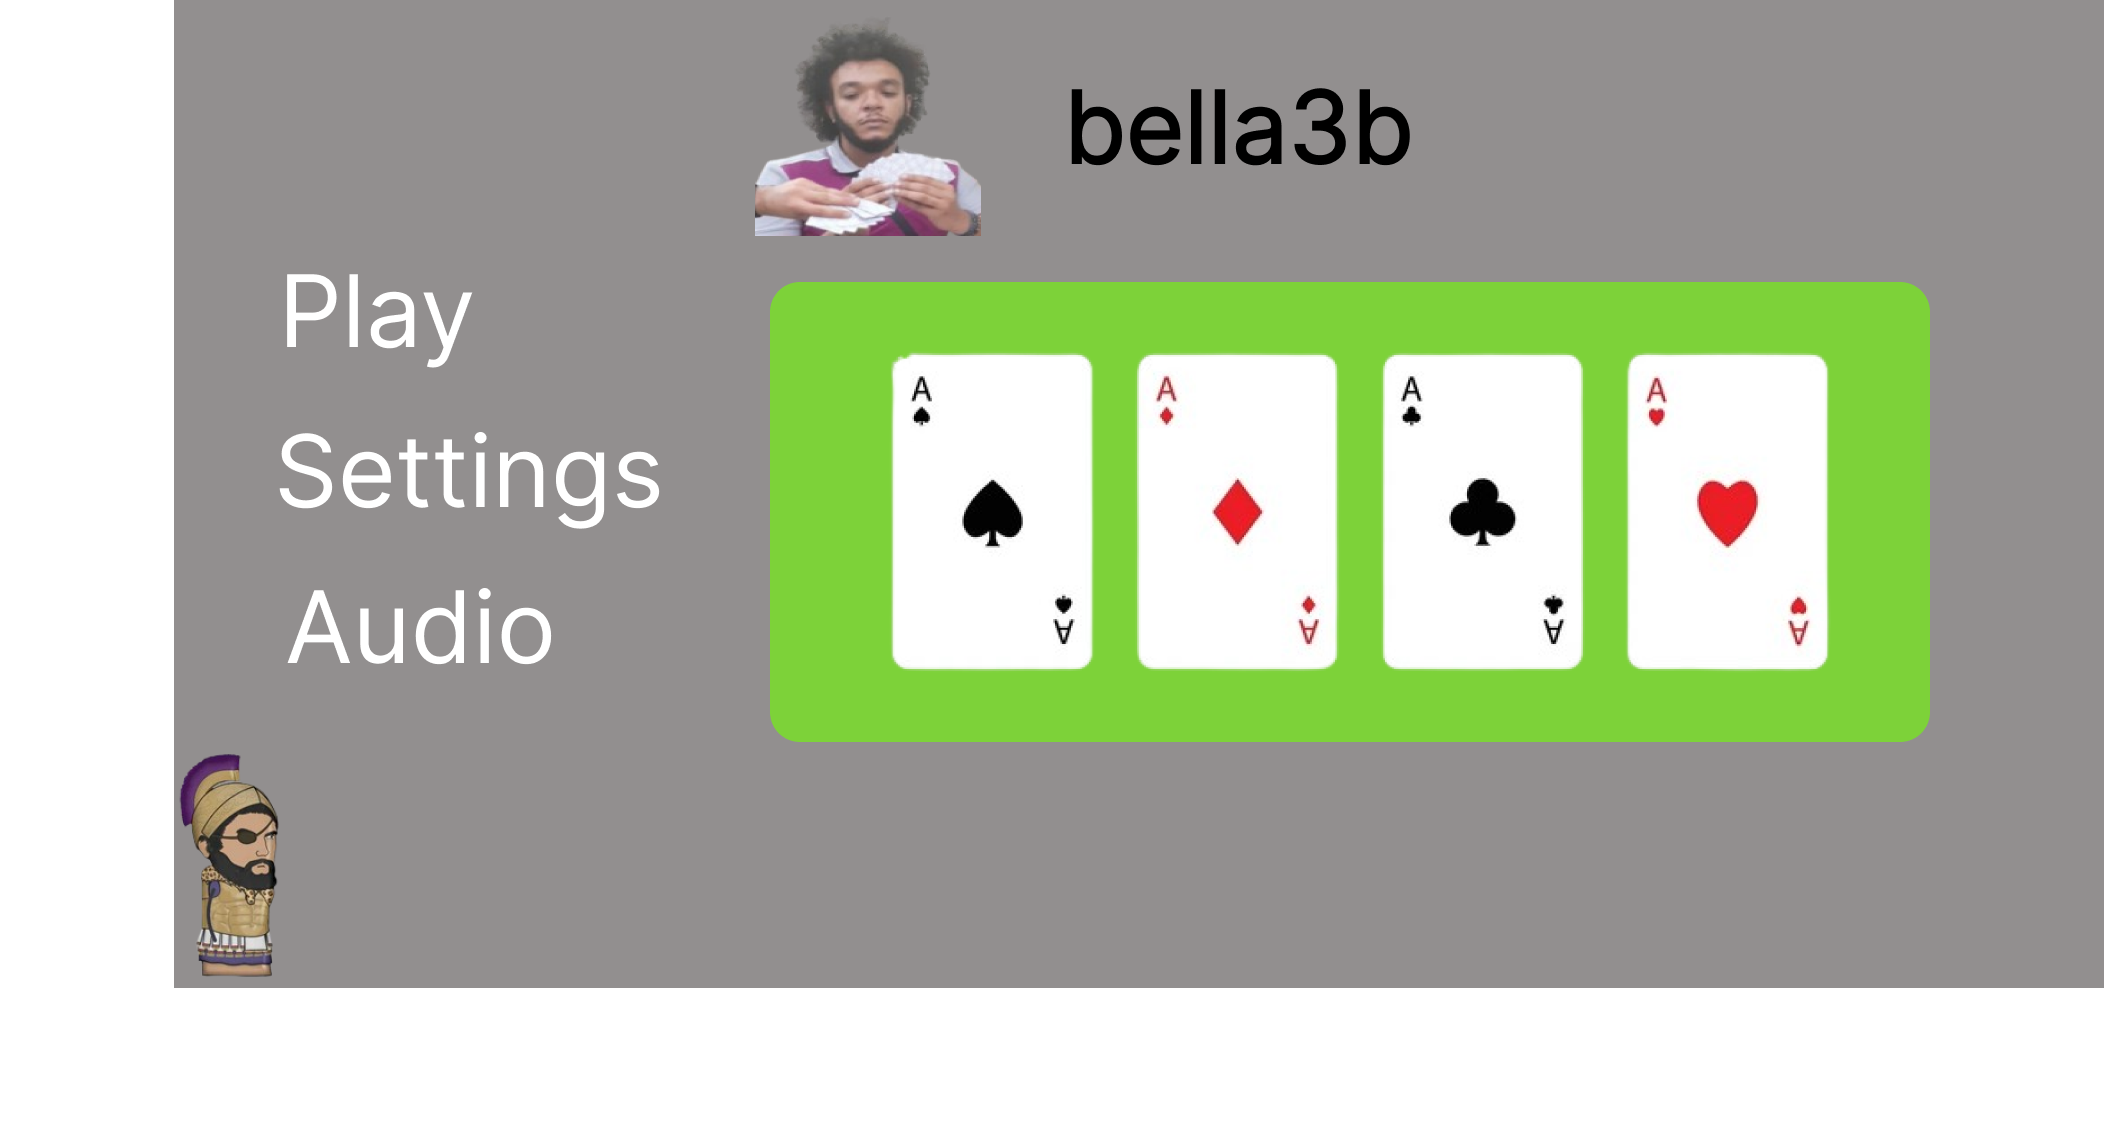
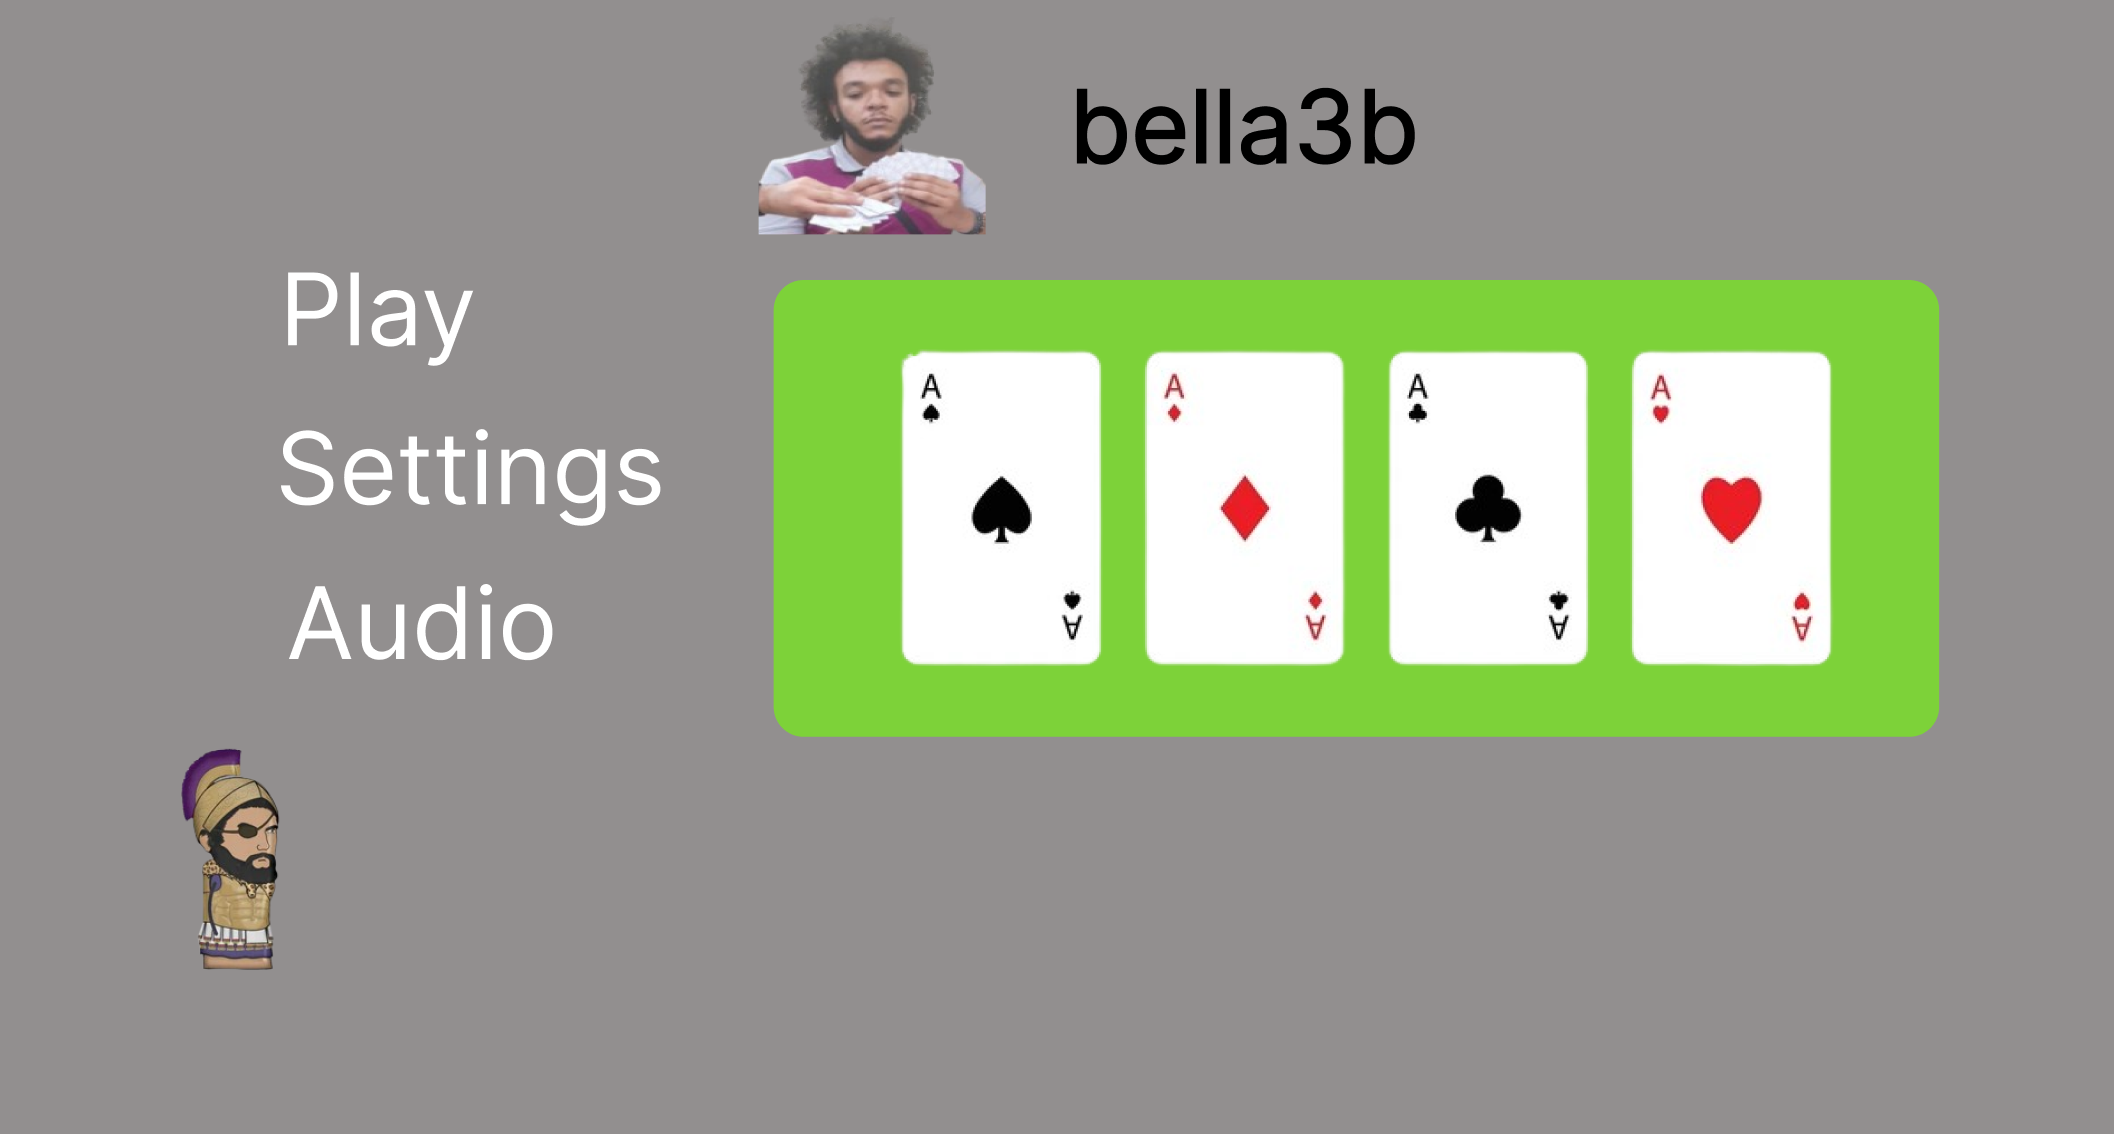
interface ala ye5dem

diff --git a/main.cpp b/main.cpp
@@ -1,9 +1,61 @@
 #include "include/Belote.h"
 #include "include/menu.h"
+#include <SFML/Graphics.hpp>
+#include <iostream>
 
 int main() {
+    // Create the main window
+    sf::RenderWindow window(sf::VideoMode(1920, 1080), "Bella3b");
     Menu menu;
-    BeloteGame game;
-    menu.displayMenu();
-    return 0;
+
+    // Define the target area where the click will trigger the new window
+    float targetX = 308.0f;
+    float targetY = 286.0f;
+    float targetWidth = 405.92f;
+    float targetHeight = 143.f;
+
+    bool displayNewWindow = false; // State variable to track which window to display
+
+    // Main game loop
+    while (window.isOpen()) {
+        sf::Event event;
+        while (window.pollEvent(event)) {
+            if (event.type == sf::Event::Closed) {
+                window.close();
+                return 0; // Close the window
+            }
+
+            // Mouse click detection and target area checking
+            if (event.type == sf::Event::MouseButtonPressed && event.mouseButton.button == sf::Mouse::Left) {
+                sf::Vector2i mousePos = sf::Mouse::getPosition(window); // Get the mouse position
+
+                // Debugging: Print mouse position in window coordinates
+                std::cout << "Mouse position: (" << mousePos.x << ", " << mousePos.y << ")" << std::endl;
+
+                // Check if the mouse is inside the target area
+                if (mousePos.x >= targetX && mousePos.x <= targetX + targetWidth &&
+                    mousePos.y >= targetY && mousePos.y <= targetY + targetHeight) {
+                    std::cout << "Mouse clicked inside target area!" << std::endl; // Debugging line
+                    displayNewWindow = true; // Change state to display the new window
+                } else {
+                    std::cout << "Mouse click outside target area!" << std::endl; // Debugging line
+                }
+            }
+        }
+
+        // Clear the window
+        window.clear();
+
+        // Display the appropriate content based on the state
+        if (displayNewWindow) {
+            menu.display(window, "../assets/ala.jpg"); // Display the new window content
+        } else {
+            menu.display(window, "../assets/Group 2.png"); // Display the main menu image
+        }
+
+        // Display the window contents
+        window.display();
+    }
+
+    return 0; 
 }

diff --git a/src/menu.cpp b/src/menu.cpp
@@ -1,3 +1,4 @@
+
 #include "../include/menu.h"
 #include <iostream>
 #include <SFML/Graphics.hpp>
@@ -7,17 +8,16 @@ Menu::~Menu() {
  
 }
 
-void Menu::displayMenu() {
-    sf::RenderWindow window(sf::VideoMode(800, 600), "Bella3b");
 
-    // Load the menu image
+bool Menu::display(sf::RenderWindow& window, const std::string& imagePath) {
+    // Load the texture from the provided image path
     sf::Texture menuTexture;
-    if (!menuTexture.loadFromFile("../assets/Group 2.png")) { // Adjust path if needed
-        std::cerr << "Error: Failed to load menu image!" << std::endl;
-        return; // Just exit the function, not return -1
+    if (!menuTexture.loadFromFile(imagePath)) {
+        std::cerr << "Error: Failed to load image from path: " << imagePath << std::endl;
+        return false;
     }
 
-    // Create a sprite for the menu
+    // Create a sprite for the image
     sf::Sprite menuSprite;
     menuSprite.setTexture(menuTexture);
 
@@ -27,17 +27,10 @@ void Menu::displayMenu() {
         window.getSize().y / menuSprite.getLocalBounds().height
     );
 
-    // Game loop
-    while (window.isOpen()) {
-        sf::Event event;
-        while (window.pollEvent(event)) {
-            if (event.type == sf::Event::Closed)
-                window.close();
-        }
+    // Draw the menu content (image)
+    window.clear();
+    window.draw(menuSprite);
+    window.display();
 
-        // Clear and draw the menu
-        window.clear();
-        window.draw(menuSprite);
-        window.display();
-    }
+    return true; // Indicate that the image was displayed successfully
 }

diff --git a/include/menu.h b/include/menu.h
@@ -1,25 +1,26 @@
 #ifndef MENU_H
 #define MENU_H
 
+#include <SFML/Graphics.hpp> // Include SFML graphics header
 #include "../include/Belote.h"
 #include <iostream>
 #include <vector>
 #include <string>
 
-using namespace std;
-
 class Menu {
 private:
-    vector<std::string> options; 
-    int selectedOption;               
+    std::vector<std::string> options; // List of menu options
+    int selectedOption;                // Index of the currently selected option
 
 public:
-    Menu();
-    ~Menu(); // Destructor declaration
-    void displayMenu();
-    void addOption(const string& option);
-    void navigateMenu();
-    int getSelectedOption() const;
+    Menu();                            // Constructor
+    ~Menu();                           // Destructor
+
+    // Main function to display the menu and handle user input
+bool display(sf::RenderWindow& window, const std::string& imagePath);
+    void addOption(const std::string& option); // Add an option to the menu
+    void navigateMenu();                       // Handle navigation through the menu options
+    int getSelectedOption() const;            // Get the currently selected option index
 };
 
-#endif
+#endif // MENU_H
